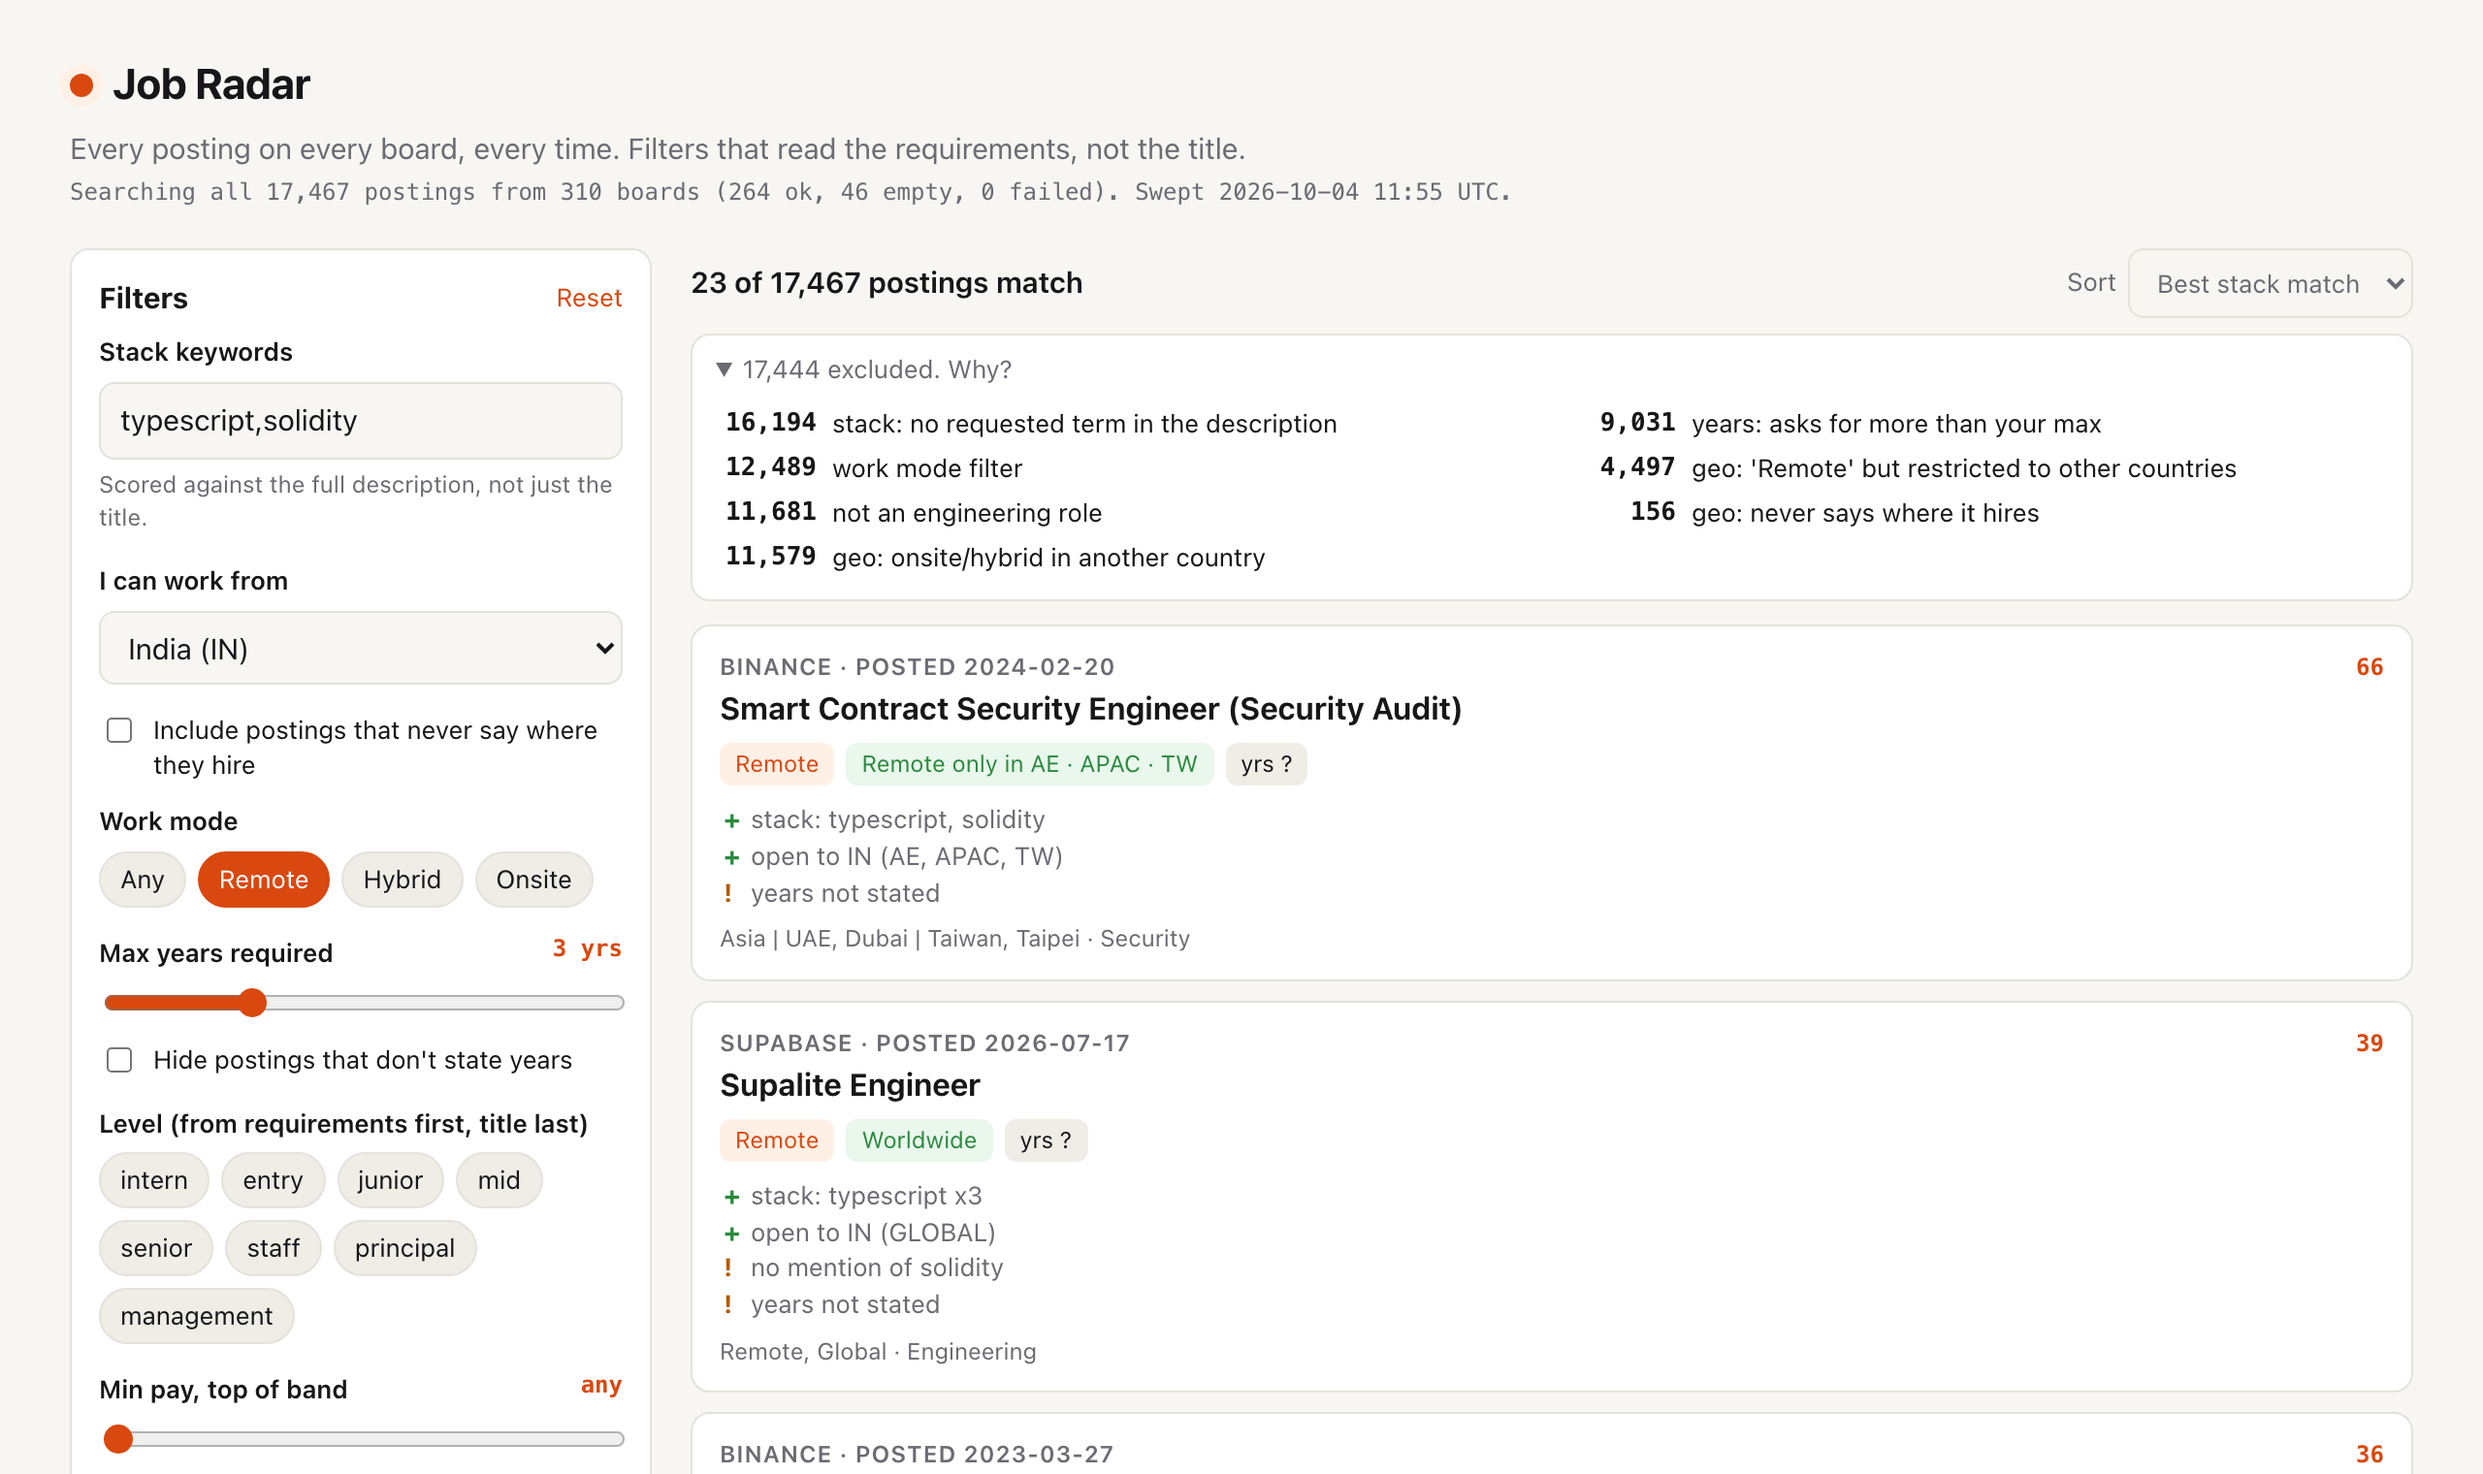
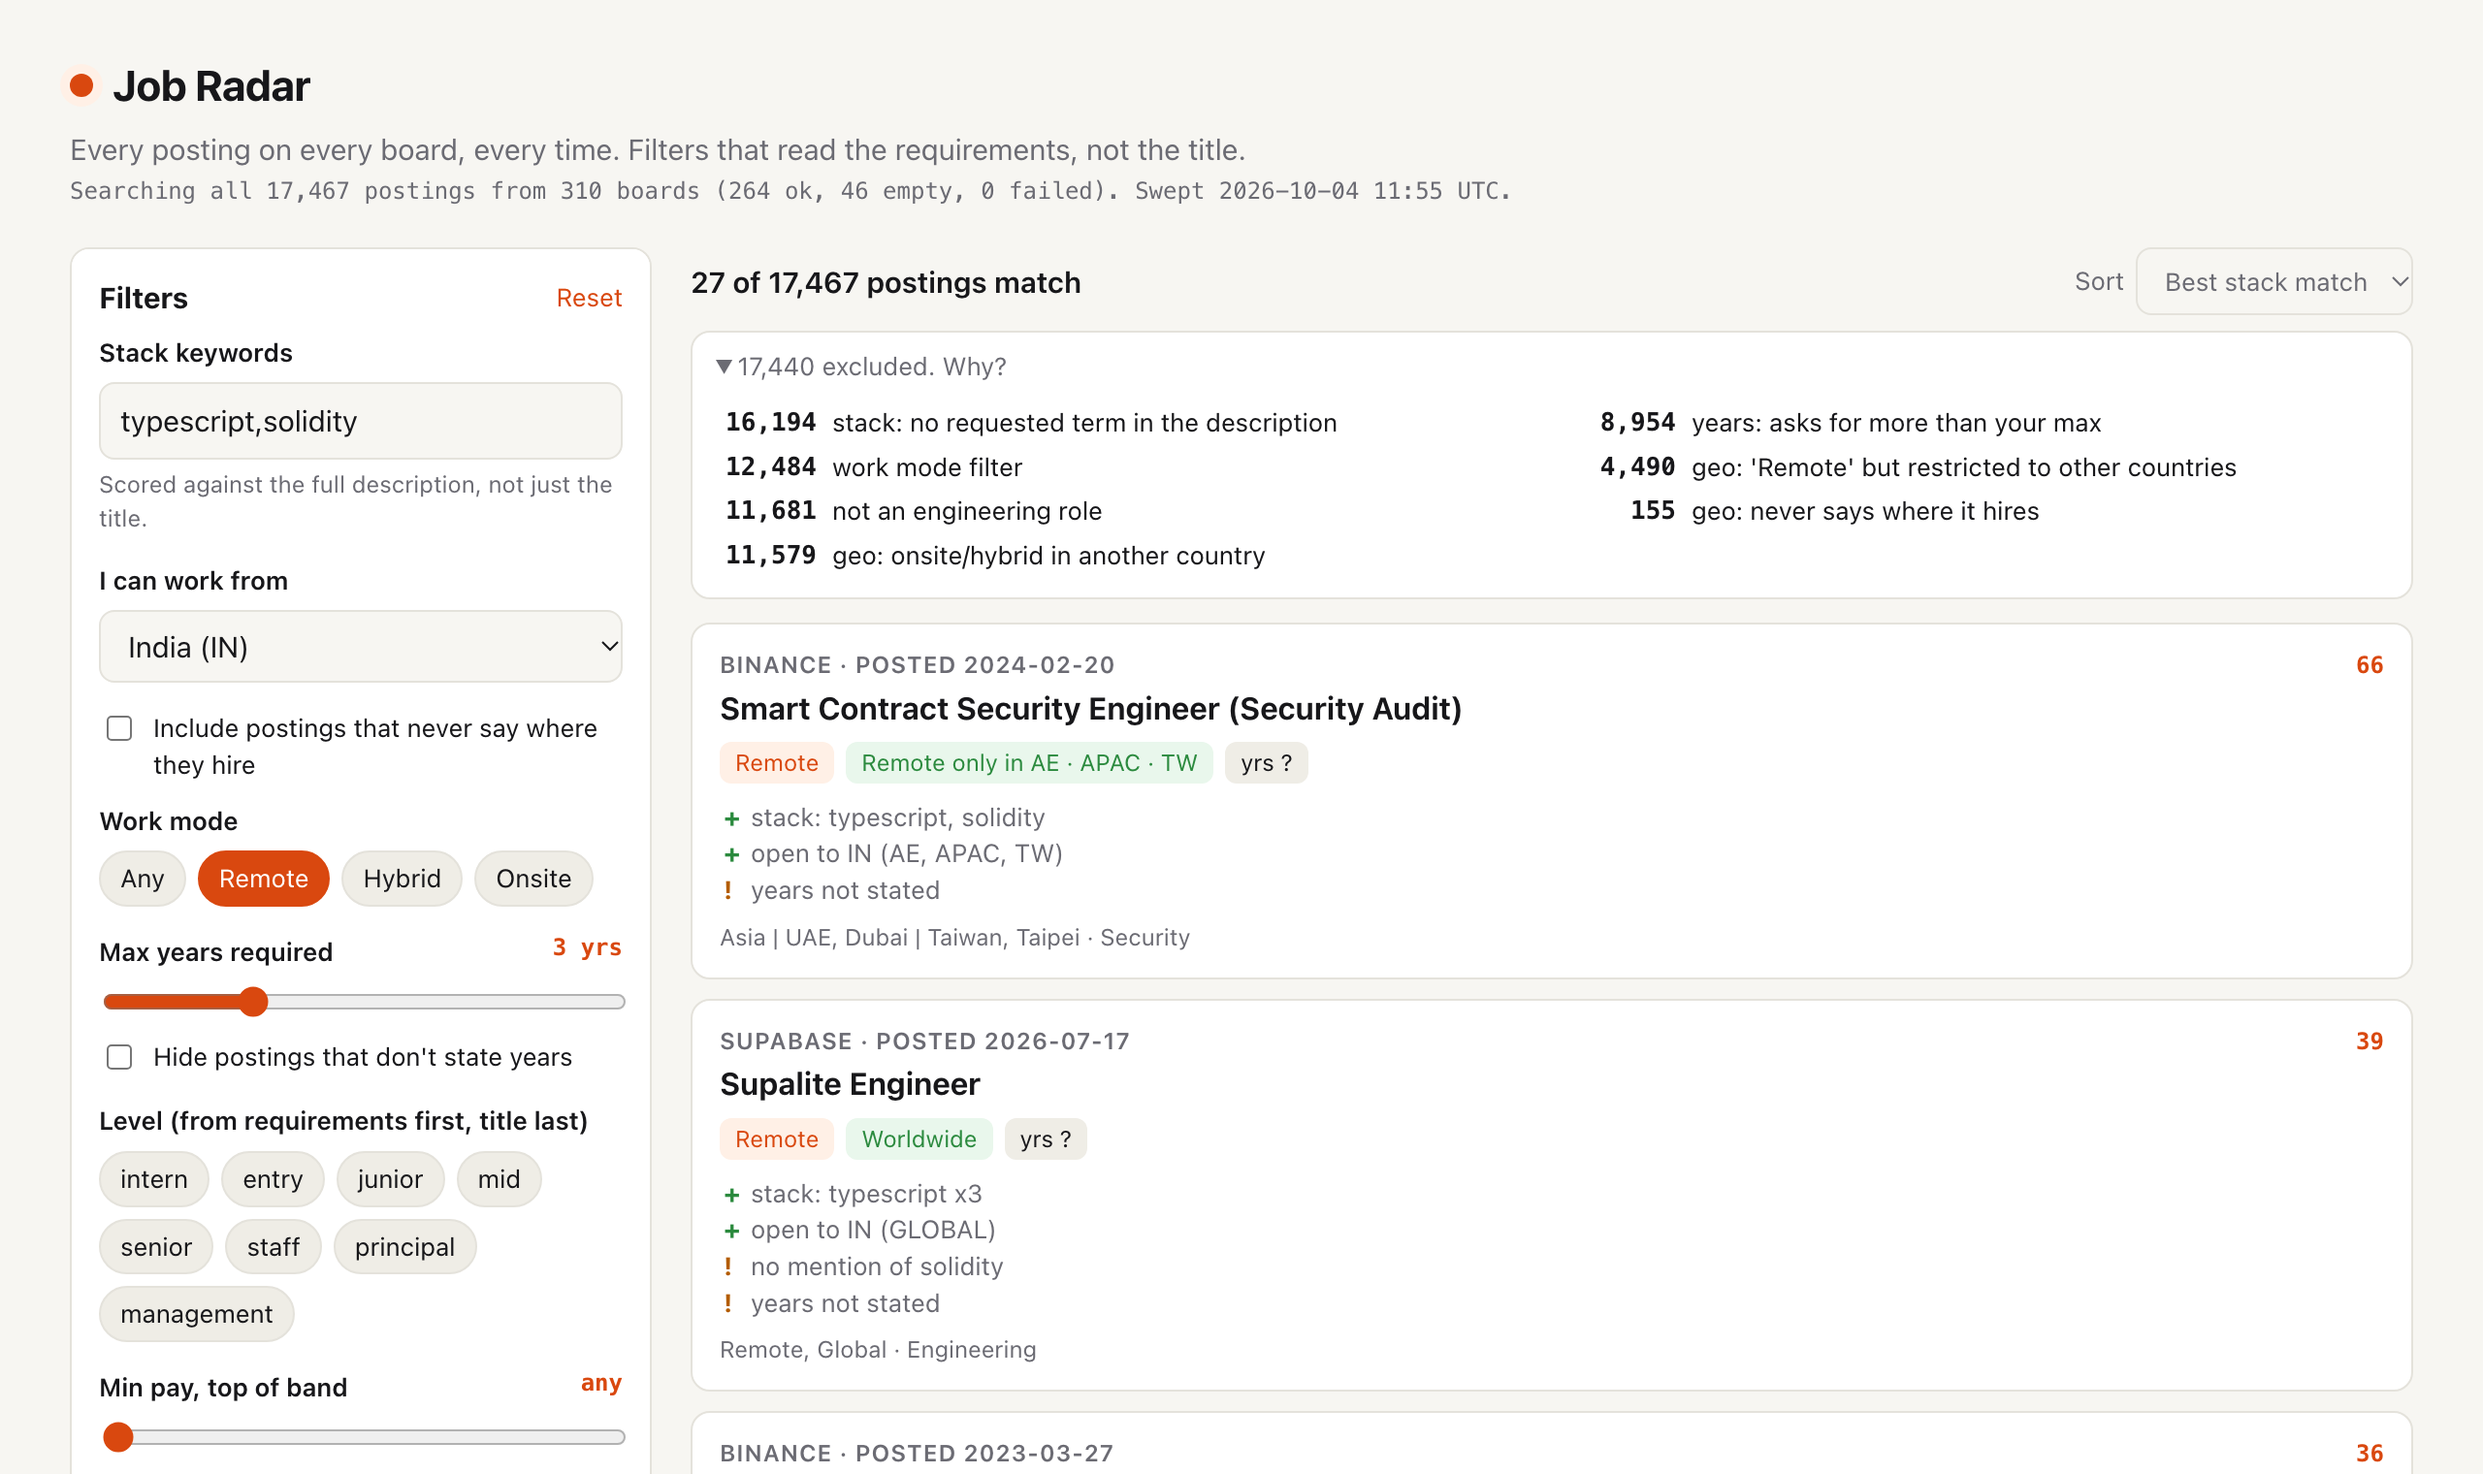
Update README numbers and screenshot for the corrected parsers, add changelog entries

diff --git a/README.md b/README.md
@@ -2,13 +2,13 @@
 
 Search company job boards straight from the Greenhouse, Ashby and Lever APIs, with filters that read the posting text: where you are actually allowed to work from, how many years the requirements ask for, and what the role pays. A CLI and a static web page for engineers who are tired of "Remote" meaning "Remote, US only".
 
-![Job Radar web UI: 23 of 17,467 postings match TypeScript and Solidity, open to India, remote, at most 3 years. The exclusion panel shows 4,497 postings removed as "'Remote' but restricted to other countries".](docs/screenshot.png)
+![Job Radar web UI: 27 of 17,467 postings match TypeScript and Solidity, open to India, remote, at most 3 years. The exclusion panel shows 4,490 postings removed as "'Remote' but restricted to other countries".](docs/screenshot.png)
 
 The same search from the CLI (real output, sweep of 2026-10-04, trimmed with `--limit 2`):
 
 ```
 $ python3 -m jobradar search --stack "typescript,solidity" --region IN --max-years 3 --remote --limit 2 --why-not 3
-Searched ALL 17467 current postings from 310 boards (snapshot 2026-10-04T11:55:21+00:00). 23 match.
+Searched ALL 17467 current postings from 310 boards (snapshot 2026-10-04T11:55:21+00:00). 27 match.
 
   1. [ 66.0] Binance | Smart Contract Security Engineer (Security Audit)
        remote | AE, APAC, TW | yrs ? | level ? | visa unknown
@@ -25,18 +25,18 @@ Searched ALL 17467 current postings from 310 boards (snapshot 2026-10-04T11:55:2
        ! no mention of solidity
        ! years not stated
 
-... 21 more (use --limit)
+... 25 more (use --limit)
 
-23 of 23 matches were first posted more than 30 days before this snapshot.
+27 of 27 matches were first posted more than 30 days before this snapshot.
 
 Excluded (a posting can have several reasons):
    16194  stack: no requested term in the description
-   12489  work mode: not remote
+   12484  work mode: not remote
    11681  not an engineering role
    11579  geo: onsite/hybrid in another country
-    9031  years: asks for more than your max
-    4497  geo: 'Remote' but restricted to other countries
-     156  geo: never says where it hires
+    8954  years: asks for more than your max
+    4490  geo: 'Remote' but restricted to other countries
+     155  geo: never says where it hires
 
 Best stack matches you are NOT seeing, and why:
   [ 69.0] Ondo Finance | Senior Full-Stack Engineer (Web3) | https://job-boards.greenhouse.io/ondofinance/jobs/4297411009
@@ -53,13 +53,13 @@ Best stack matches you are NOT seeing, and why:
 
 Job Radar came out of three mistakes in a real job search.
 
-- **A diff is not a search.** A daily script printed only postings that were new since its last run. When all 184 boards were finally pulled and filtered from scratch, the best stack match of the whole search had been live for weeks. It never surfaced because it was never new on a day the script ran. Job Radar always searches the full current set. In the run above, all 23 matches had been posted more than 30 days earlier.
+- **A diff is not a search.** A daily script printed only postings that were new since its last run. When all 184 boards were finally pulled and filtered from scratch, the best stack match of the whole search had been live for weeks. It never surfaced because it was never new on a day the script ran. Job Radar always searches the full current set. In the run above, all 27 matches had been posted more than 30 days earlier.
 - **"Remote" is a work mode, not a geography.** A "Remote" role at a card company was open only to the US, Canada (Ontario or BC only), the Netherlands, Poland and Czechia, with no visa sponsorship. Across the 996 engineering postings with "Remote" in the location field, 950 are limited to named countries or regions and 20 are open worldwide.
-- **A job title is not a level.** A plainly titled "Software Engineer, Internal Systems" asked for 8+ years, while "Backend Engineer E2" was the real fit. Of the 1,001 plain-titled engineering roles that state years, 512 (51%) ask for 5 or more.
+- **A job title is not a level.** A plainly titled "Software Engineer, Internal Systems" asked for 8+ years, while "Backend Engineer E2" was the real fit. Of the 995 plain-titled engineering roles that state years, 506 (51%) ask for 5 or more.
 
 ### How these numbers were measured
 
-One full sweep of the 310 boards in `seeds/boards.json`, started 2026-10-04 11:39 UTC and finished 11:55 UTC, run from an Apple M4 laptop on macOS 27 with Python 3.14 over a home connection. Result: 264 boards with openings, 46 empty, 0 errors, 17,467 postings, 5,786 of them engineering. The figures come from `jobradar stats` and the search above. They are a snapshot of those boards on that day, and the parsers are heuristic (see [Limitations](#limitations)), so treat them as measured approximations. Two sweeps run back to back the same morning found 0 new and 0 closed postings, which is the idempotency check.
+One full sweep of the 310 boards in `seeds/boards.json`, started 2026-10-04 11:39 UTC and finished 11:55 UTC, run from an Apple M4 laptop on macOS 27 with Python 3.14 over a home connection. Result: 264 boards with openings, 46 empty, 0 errors, 17,467 postings, 5,786 of them engineering. The figures come from `jobradar stats` and the search above, with the payloads re-read by the current parsers (`jobradar reparse`, 2026-10-05). They are a snapshot of those boards on that day, and the parsers are heuristic (see [Limitations](#limitations)), so treat them as measured approximations. Two sweeps run back to back the same morning found 0 new and 0 closed postings, which is the idempotency check.
 
 ## Quickstart
 

diff --git a/CHANGELOG.md b/CHANGELOG.md
@@ -4,6 +4,16 @@ All notable changes to this project are documented here. The format follows [Kee
 
 ## [Unreleased]
 
+### Fixed
+- Sponsorship: hedged sentences ("we aren't able to sponsor visas for every role") no longer read as a refusal, and export-license, executive-sponsor and EEO immigration-status sentences are ignored. 1,040 postings in the 2026-10-04 snapshot were wrongly "no".
+- Sponsorship: "Sponsorship available", "Sponsorship: Yes/No" and "open to sponsoring" are recognized.
+- Geography: loose words in a description ("international team", "anywhere from 25 customers", a negated or perk "work from anywhere") no longer make a posting worldwide, and an onsite or hybrid job is never worldwide from prose.
+- Geography: a time zone in the location field ("Remote, US time zones") is a working-hours note, not a residency rule. `NA` and `APJ` are read as regions.
+- Years: "the last 10 years" company history is no longer a requirement; "6+ years overall" and "(10+ total)" count; one-line requirements with "must have" are no longer skipped as headers; "eight-plus years" parses.
+- Level codes: the E ladder is monotonic (E3 no longer ranks below E2).
+- Sweep: a board whose jobs all fail to parse is an error instead of "ok" with zero postings (which closed its postings), and an unexpected exception in one board no longer aborts the whole sweep.
+- Web build: U+2028/U+2029 in posting text are escaped in `jobs.js`.
+
 ## [0.1.0] - 2026-10-05
 
 ### Added
